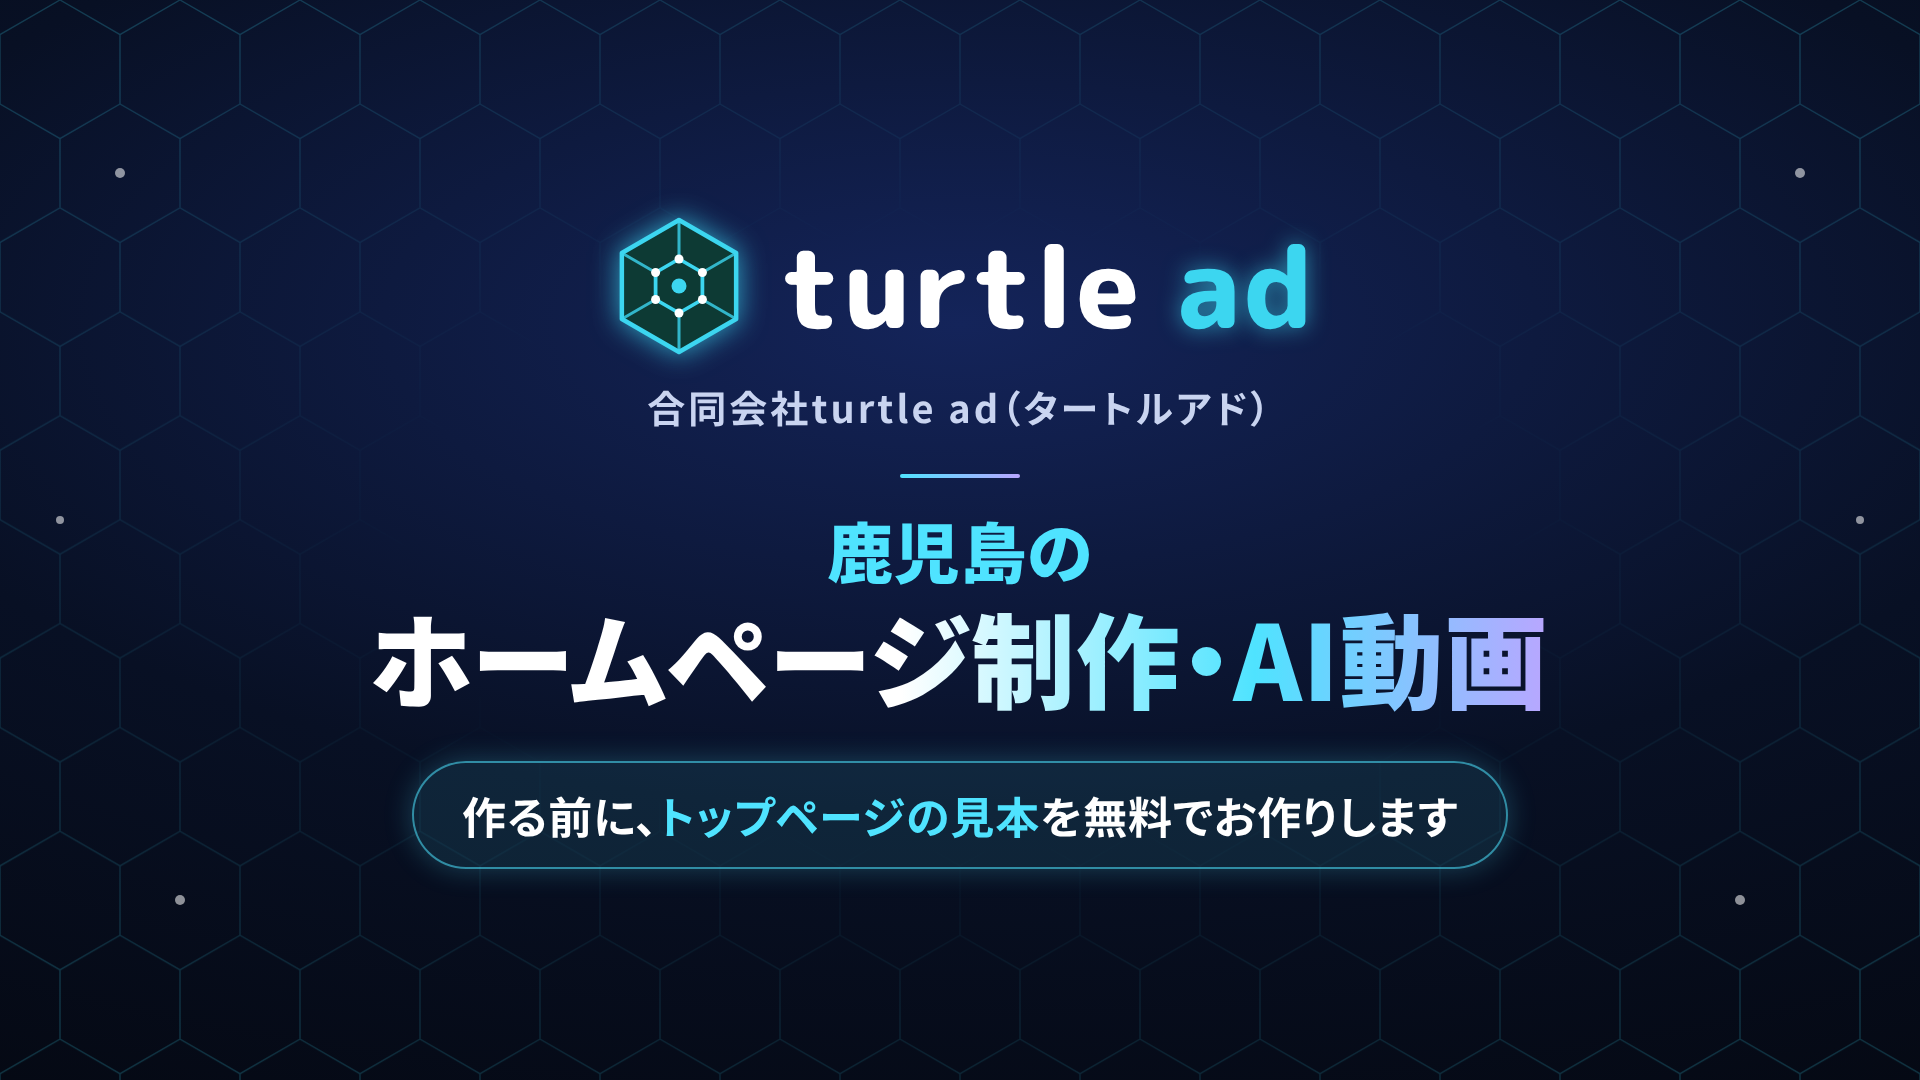
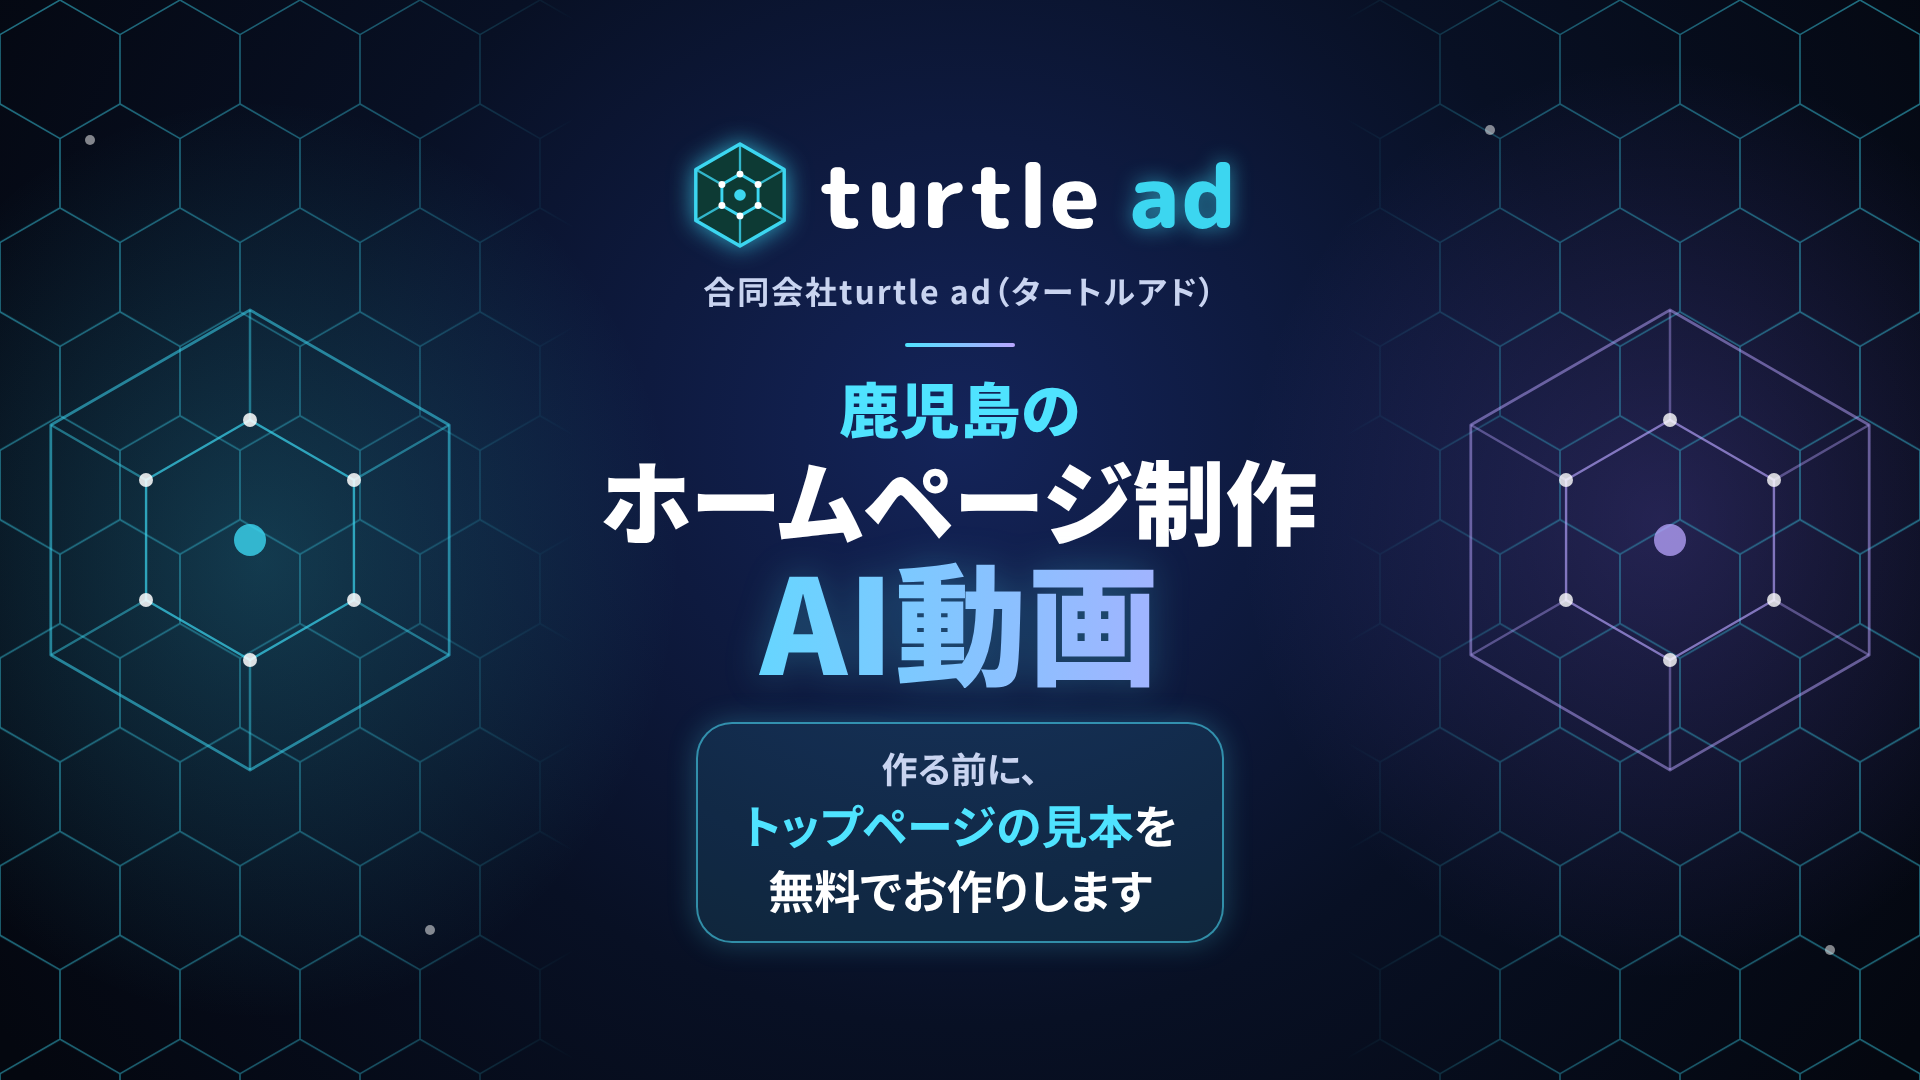
Googleマップのカバー写真を縦長の切り抜きに対応
Claude-Session: https://claude.ai/code/session_01AEUD51XjG8dmPm8piaKEQH

diff --git a/資料/googlemap_cover_src/cover.html b/資料/googlemap_cover_src/cover.html
@@ -4,44 +4,70 @@
 <!-- フォント：turtle-ad.com と同じ Google Fonts（Noto Sans JP / M PLUS Rounded 1c / Outfit。いずれもSIL OFL） -->
 <link href="https://fonts.googleapis.com/css2?family=Noto+Sans+JP:wght@500;700;900&family=M+PLUS+Rounded+1c:wght@800&family=Outfit:wght@500;700&display=block" rel="stylesheet">
 <style>
-:root{--bg:#060b18;--cyan:#4fe3ff;--logo:#3CD6F0;--violet:#b9a6ff;--text:#f2f6ff;--sub:#c9d4f0;--shell:#0D3A34}
+:root{--bg:#060b18;--cyan:#4fe3ff;--logo:#3CD6F0;--violet:#b9a6ff;--text:#f2f6ff;--sub:#c9d4f0}
 *{margin:0;padding:0;box-sizing:border-box}
 html,body{width:1920px;height:1080px;overflow:hidden}
-body{background:radial-gradient(120% 90% at 50% 30%,#14245a 0%,#081024 50%,#04070f 100%);color:var(--text);
+body{background:radial-gradient(60% 100% at 50% 40%,#14245a 0%,#081024 55%,#04070f 100%);color:var(--text);
   font-family:'Noto Sans JP',sans-serif;font-feature-settings:"palt";position:relative}
-/* 背景の亀甲ネットワーク（ロゴのモチーフ。端は切れてもよい飾り） */
 .bg{position:absolute;inset:0}
-/* 中央70%（1344×756）。この中に文字とロゴをすべて収める */
-.safe{position:absolute;left:288px;top:162px;width:1344px;height:756px;display:flex;flex-direction:column;align-items:center;justify-content:center;text-align:center}
+/* 文字とロゴは中央の幅800px（x=560〜1360）にすべて収める。スマホの写真表示（中央約860×1080）で切れないため */
+.safe{position:absolute;left:560px;top:0;width:800px;height:1080px;display:flex;flex-direction:column;align-items:center;justify-content:center;text-align:center}
 .guide .safe{outline:3px dashed #ff5a5a}
-.logo{display:flex;align-items:center;gap:26px;font-family:'M PLUS Rounded 1c',sans-serif;font-weight:800;font-size:112px;line-height:1;letter-spacing:.02em;color:#fff}
-.logo svg{width:150px;height:150px;overflow:visible;filter:drop-shadow(0 0 14px rgba(60,214,240,.75))}
-.logo b{color:var(--logo);text-shadow:0 0 22px rgba(60,214,240,.6)}
-.corp{margin-top:18px;font-size:38px;font-weight:700;letter-spacing:.08em;color:var(--sub)}
-.rule{width:120px;height:4px;border-radius:2px;margin:40px 0 34px;background:linear-gradient(90deg,var(--cyan),var(--violet))}
-.catch{font-weight:900;line-height:1.15;letter-spacing:.02em}
-.catch .s{display:block;font-size:66px;color:var(--cyan)}
-.catch .m{display:block;font-size:104px;margin-top:8px;background:linear-gradient(90deg,#fff 0%,#fff 45%,var(--cyan) 75%,var(--violet) 100%);-webkit-background-clip:text;background-clip:text;color:transparent}
-.pill{margin-top:46px;padding:20px 48px;border-radius:999px;font-size:44px;font-weight:700;letter-spacing:.02em;color:#fff;
+.guide .safe::after{content:"";position:absolute;left:-30px;top:0;width:860px;height:1080px;outline:3px dashed #ffd84f}
+.logo{display:flex;align-items:center;gap:20px;font-family:'M PLUS Rounded 1c',sans-serif;font-weight:800;font-size:88px;line-height:1;letter-spacing:.02em;color:#fff}
+.logo svg{width:116px;height:116px;overflow:visible;filter:drop-shadow(0 0 12px rgba(60,214,240,.75))}
+.logo b{color:var(--logo);text-shadow:0 0 20px rgba(60,214,240,.6)}
+.corp{margin-top:14px;font-size:32px;font-weight:700;letter-spacing:.06em;color:var(--sub)}
+.rule{width:110px;height:4px;border-radius:2px;margin:30px 0 26px;background:linear-gradient(90deg,var(--cyan),var(--violet))}
+.catch{font-weight:900;line-height:1.12;letter-spacing:.02em}
+.catch span{display:block}
+.catch .s{font-size:60px;color:var(--cyan)}
+.catch .m{font-size:92px;margin-top:6px;color:#fff}
+.catch .l{font-size:132px;line-height:1.05;background:linear-gradient(90deg,var(--cyan) 0%,var(--violet) 100%);-webkit-background-clip:text;background-clip:text;color:transparent;filter:drop-shadow(0 0 18px rgba(79,227,255,.25))}
+.pill{margin-top:34px;padding:18px 44px 20px;border-radius:36px;font-weight:700;line-height:1.4;color:#fff;
   background:rgba(79,227,255,.10);border:2px solid rgba(79,227,255,.55);box-shadow:0 0 28px rgba(79,227,255,.25)}
+.pill span{display:block}
+.pill .a{font-size:36px;color:var(--sub)}
+.pill .b{font-size:46px}
 .pill em{font-style:normal;color:var(--cyan)}
 </style></head>
 <body>
 <svg class="bg" viewBox="0 0 1920 1080" aria-hidden="true">
   <defs>
     <pattern id="hex" width="120" height="207.84" patternUnits="userSpaceOnUse">
-      <path d="M60 0 L120 34.64 L120 103.92 L60 138.56 L0 103.92 L0 34.64 Z M60 138.56 L60 207.84" fill="none" stroke="#3CD6F0" stroke-width="1.4"/>
+      <path d="M60 0 L120 34.64 L120 103.92 L60 138.56 L0 103.92 L0 34.64 Z M60 138.56 L60 207.84" fill="none" stroke="#3CD6F0" stroke-width="1.6"/>
     </pattern>
-    <radialGradient id="fade" cx="50%" cy="50%" r="62%">
-      <stop offset="45%" stop-color="#000"/><stop offset="100%" stop-color="#fff"/>
-    </radialGradient>
-    <mask id="m"><rect width="1920" height="1080" fill="url(#fade)"/></mask>
+    <!-- 中央は暗く、左右に行くほど模様が濃くなる -->
+    <linearGradient id="side" x1="0" x2="1">
+      <stop offset="0" stop-color="#fff"/><stop offset=".2" stop-color="#bbb"/><stop offset=".3" stop-color="#000"/>
+      <stop offset=".7" stop-color="#000"/><stop offset=".8" stop-color="#bbb"/><stop offset="1" stop-color="#fff"/>
+    </linearGradient>
+    <mask id="m"><rect width="1920" height="1080" fill="url(#side)"/></mask>
+    <radialGradient id="glowL" cx="50%" cy="50%" r="50%"><stop offset="0" stop-color="#3CD6F0" stop-opacity=".22"/><stop offset="1" stop-color="#3CD6F0" stop-opacity="0"/></radialGradient>
+    <radialGradient id="glowR" cx="50%" cy="50%" r="50%"><stop offset="0" stop-color="#8b6bff" stop-opacity=".22"/><stop offset="1" stop-color="#8b6bff" stop-opacity="0"/></radialGradient>
+    <g id="bighex"><polygon points="0,-1 .866,-.5 .866,.5 0,1 -.866,.5 -.866,-.5" fill="none" stroke-linejoin="round"/></g>
   </defs>
-  <rect width="1920" height="1080" fill="url(#hex)" opacity=".22" mask="url(#m)"/>
-  <g fill="#fff" opacity=".55">
-    <circle cx="120" cy="173" r="5"/><circle cx="1800" cy="173" r="5"/><circle cx="180" cy="900" r="5"/><circle cx="1740" cy="900" r="5"/>
-    <circle cx="60" cy="520" r="4"/><circle cx="1860" cy="520" r="4"/>
+  <ellipse cx="260" cy="560" rx="420" ry="460" fill="url(#glowL)"/>
+  <ellipse cx="1660" cy="520" rx="420" ry="460" fill="url(#glowR)"/>
+  <rect width="1920" height="1080" fill="url(#hex)" opacity=".5" mask="url(#m)"/>
+  <!-- 左右の大きな六角形（ロゴの亀甲モチーフ） -->
+  <g stroke="#3CD6F0" fill="none" stroke-linejoin="round">
+    <polygon transform="translate(250 540) scale(230)" points="0,-1 .866,-.5 .866,.5 0,1 -.866,.5 -.866,-.5" stroke-width=".012" opacity=".55"/>
+    <polygon transform="translate(250 540) scale(120)" points="0,-1 .866,-.5 .866,.5 0,1 -.866,.5 -.866,-.5" stroke-width=".02" opacity=".7"/>
+    <path d="M250 310 V420 M449 425 L354 480 M449 655 L354 600 M250 770 V660 M51 655 L146 600 M51 425 L146 480" stroke-width="2.5" opacity=".45"/>
+    <polygon transform="translate(1670 540) scale(230)" points="0,-1 .866,-.5 .866,.5 0,1 -.866,.5 -.866,-.5" stroke="#b9a6ff" stroke-width=".012" opacity=".5"/>
+    <polygon transform="translate(1670 540) scale(120)" points="0,-1 .866,-.5 .866,.5 0,1 -.866,.5 -.866,-.5" stroke="#b9a6ff" stroke-width=".02" opacity=".65"/>
+    <path d="M1670 310 V420 M1869 425 L1774 480 M1869 655 L1774 600 M1670 770 V660 M1471 655 L1566 600 M1471 425 L1566 480" stroke="#b9a6ff" stroke-width="2.5" opacity=".4"/>
   </g>
+  <g fill="#fff">
+    <circle cx="250" cy="420" r="7" opacity=".85"/><circle cx="354" cy="480" r="7" opacity=".85"/><circle cx="354" cy="600" r="7" opacity=".85"/>
+    <circle cx="250" cy="660" r="7" opacity=".85"/><circle cx="146" cy="600" r="7" opacity=".85"/><circle cx="146" cy="480" r="7" opacity=".85"/>
+    <circle cx="1670" cy="420" r="7" opacity=".8"/><circle cx="1774" cy="480" r="7" opacity=".8"/><circle cx="1774" cy="600" r="7" opacity=".8"/>
+    <circle cx="1670" cy="660" r="7" opacity=".8"/><circle cx="1566" cy="600" r="7" opacity=".8"/><circle cx="1566" cy="480" r="7" opacity=".8"/>
+    <circle cx="90" cy="140" r="5" opacity=".5"/><circle cx="430" cy="930" r="5" opacity=".5"/><circle cx="1830" cy="950" r="5" opacity=".5"/><circle cx="1490" cy="130" r="5" opacity=".5"/>
+  </g>
+  <circle cx="250" cy="540" r="16" fill="#3CD6F0" opacity=".8"/>
+  <circle cx="1670" cy="540" r="16" fill="#b9a6ff" opacity=".75"/>
 </svg>
 
 <div class="safe">
@@ -52,7 +78,7 @@ body{background:radial-gradient(120% 90% at 50% 30%,#14245a 0%,#081024 50%,#0407
   </div>
   <p class="corp">合同会社turtle ad（タートルアド）</p>
   <div class="rule"></div>
-  <h1 class="catch"><span class="s">鹿児島の</span><span class="m">ホームページ制作・AI動画</span></h1>
-  <p class="pill">作る前に、<em>トップページの見本</em>を無料でお作りします</p>
+  <h1 class="catch"><span class="s">鹿児島の</span><span class="m">ホームページ制作</span><span class="l">AI動画</span></h1>
+  <p class="pill"><span class="a">作る前に、</span><span class="b"><em>トップページの見本</em>を</span><span class="b">無料でお作りします</span></p>
 </div>
 </body></html>

diff --git a/資料/googlemap_cover_src/render.js b/資料/googlemap_cover_src/render.js
@@ -12,8 +12,8 @@ const path = require('path');
   await p.screenshot({ path: path.join(out, 'googlemap_cover.png') });
   const r = await p.evaluate(() => {
     const s = document.querySelector('.safe').getBoundingClientRect();
-    return [...document.querySelectorAll('.logo,.corp,.catch .s,.catch .m,.pill')].map(e => {
-      const q = e.getBoundingClientRect();
+    return [...document.querySelectorAll('.logo,.corp,.catch .s,.catch .m,.catch .l,.pill .a,.pill .b,.pill')].map(e => {
+      const rg=document.createRange(); rg.selectNodeContents(e); const q = (e.classList.contains('pill')||e.classList.contains('logo'))? e.getBoundingClientRect() : rg.getBoundingClientRect();
       return { cls: e.className, l: Math.round(q.left), r: Math.round(q.right), t: Math.round(q.top), b: Math.round(q.bottom),
         inside: q.left >= s.left && q.right <= s.right && q.top >= s.top && q.bottom <= s.bottom };
     }).concat([{fonts:[...document.fonts].filter(f=>f.status==='loaded').map(f=>f.family).filter((v,i,a)=>a.indexOf(v)===i)}]);
@@ -21,5 +21,8 @@ const path = require('path');
   console.log(JSON.stringify(r, null, 1));
   await p.evaluate(() => document.body.classList.add('guide'));
   await p.screenshot({ path: path.join(__dirname, 'check_safe70.png') });
+  // スマホの写真表示（中央 約860×1080）を想定した切り出し
+  await p.evaluate(() => document.body.classList.remove('guide'));
+  await p.screenshot({ path: path.join(__dirname, 'check_portrait.png'), clip: { x: 530, y: 0, width: 860, height: 1080 } });
   await b.close();
 })();
